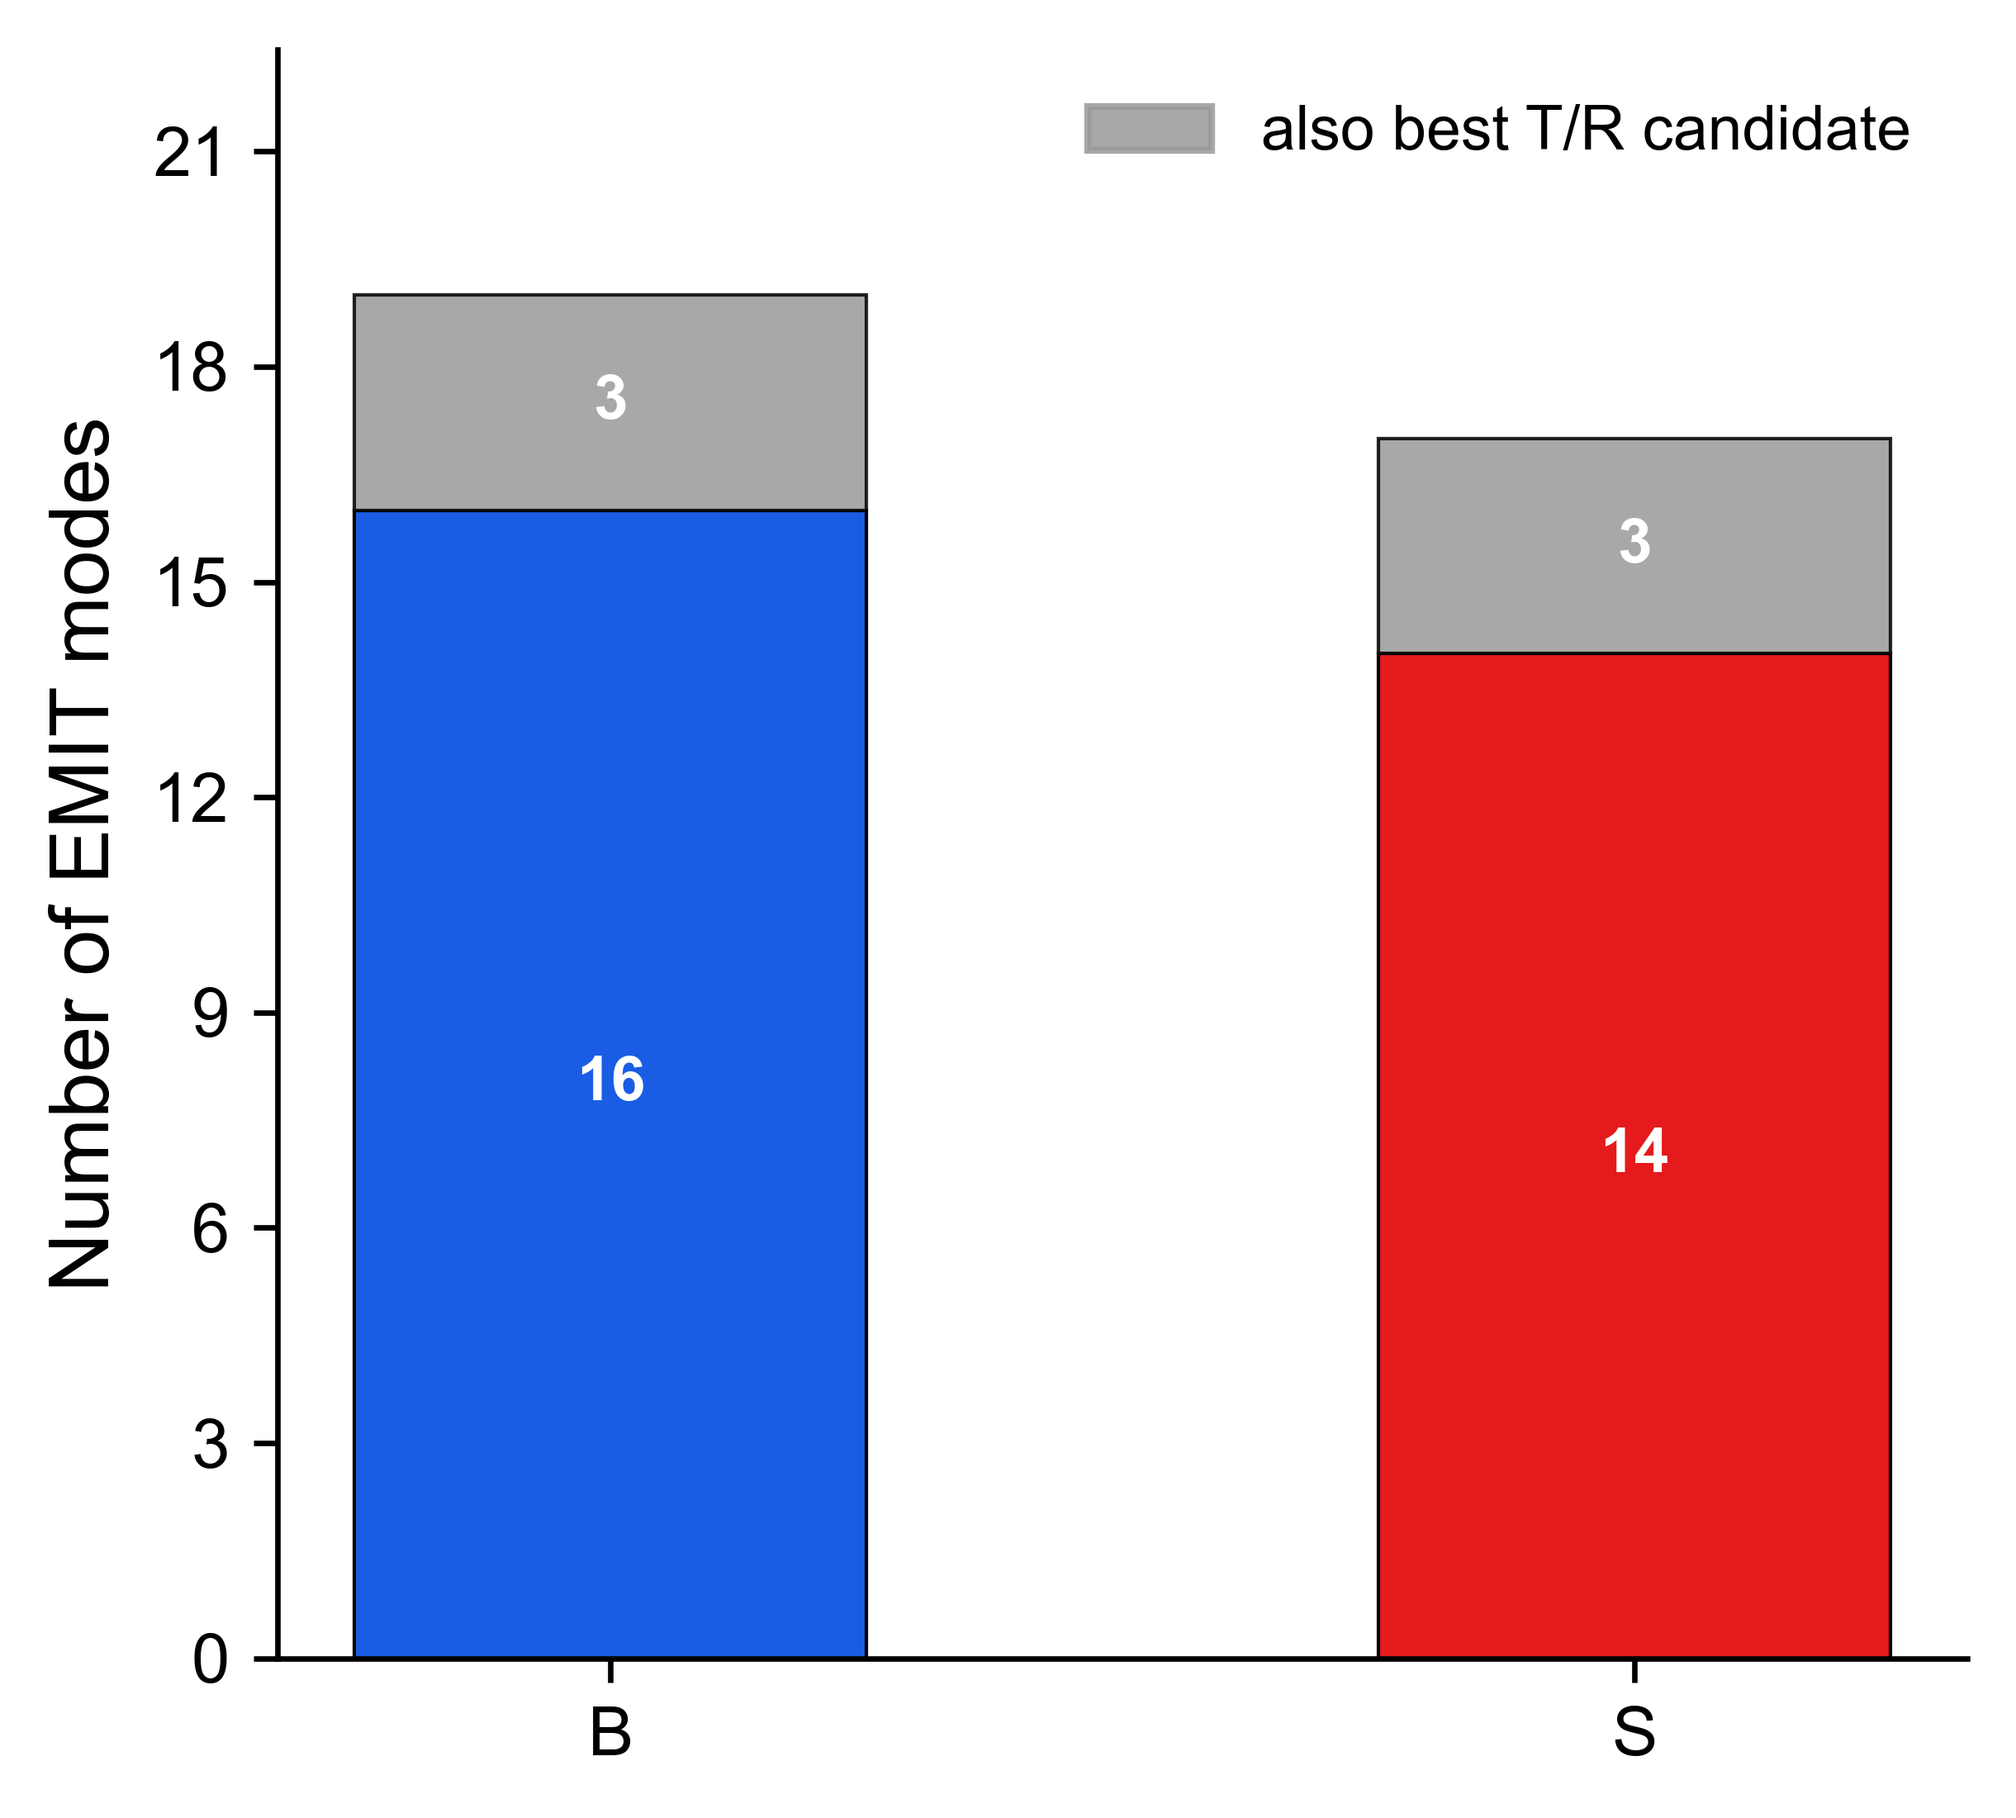
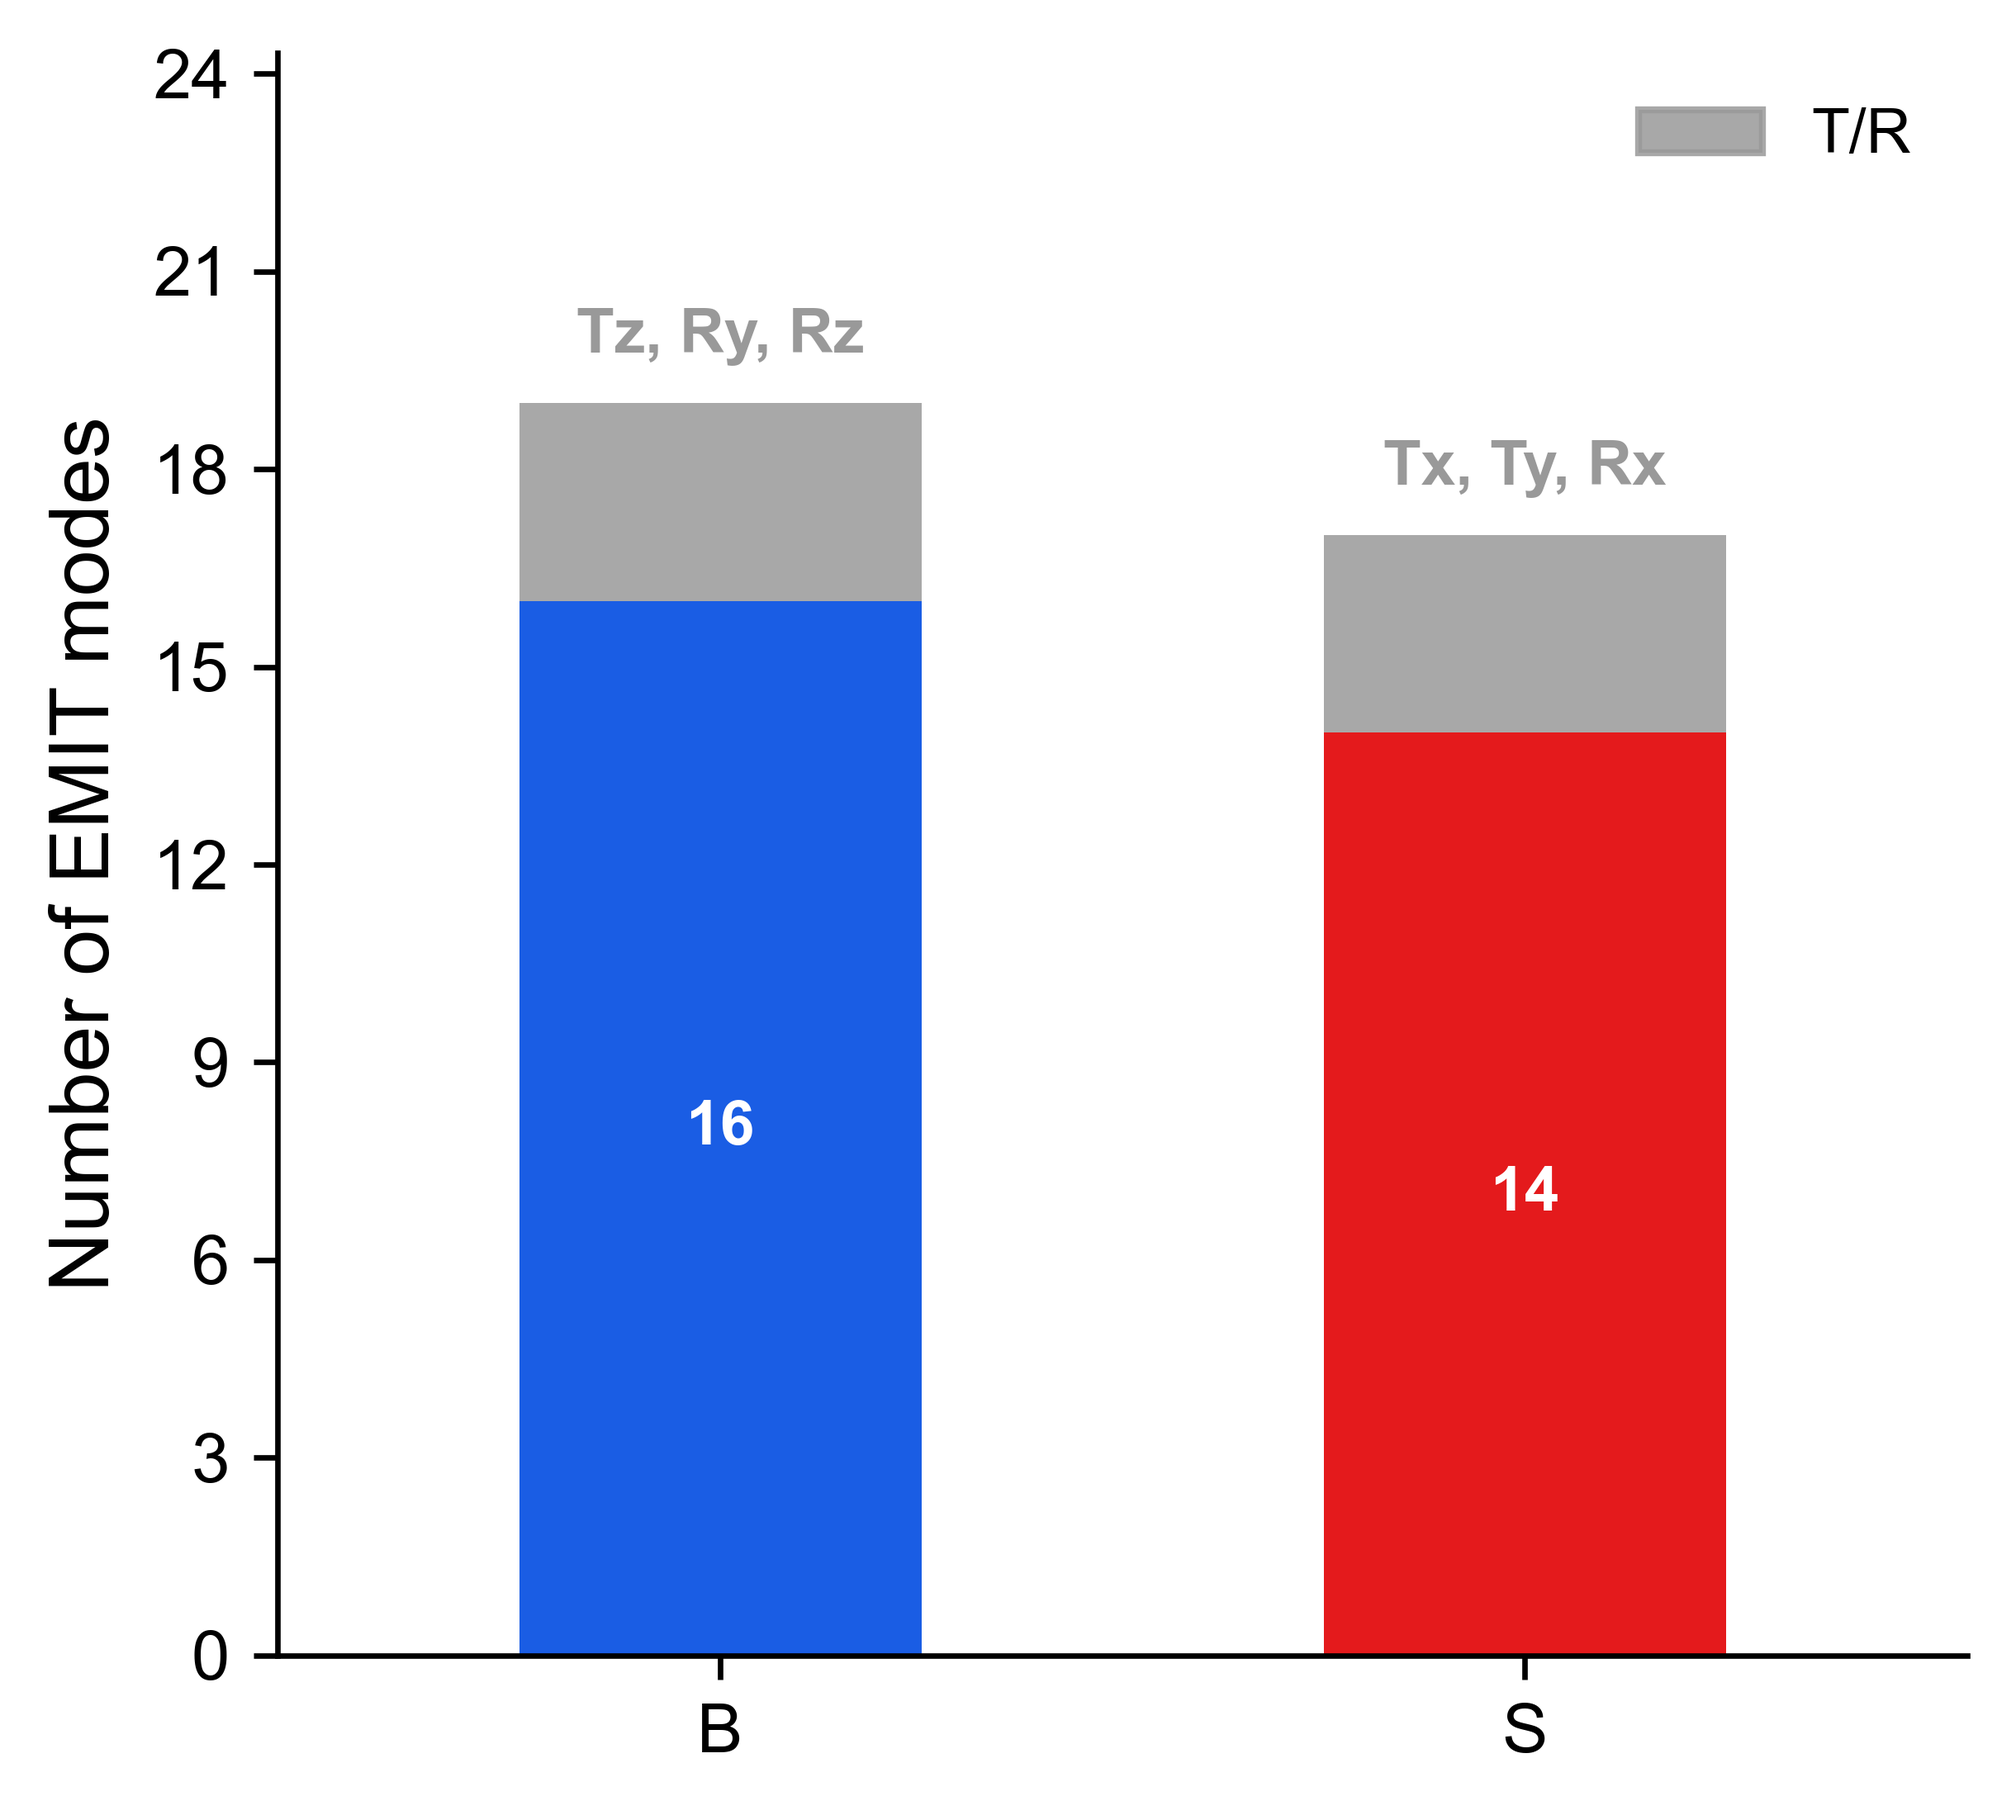
Polish fig_benzene_emit_counts: no bar borders, tighter spacing, explicit T/R mode labels
Legend shortened to "T/R"; the grey overlap segment on each bar is now
labeled with the actual T/R slot names (e.g. "Tz, Ry, Rz") instead of a
bare count, so readers see which EMIT modes were selected as best T/R
candidates without cross-referencing a table.

diff --git a/src/figures.py b/src/figures.py
@@ -1824,10 +1824,11 @@ def plot_benzene_emit_counts(
 ):
     """Build fig:benzeneemitcounts: benzene's 36 EMIT modes split into the
     two Step-2 vibrational buckets (B, S) from ``vib_label`` (binary scheme,
-    ``tau_SB``), each bar topped with a gray sub-segment counting how many
-    of that bucket's modes were ALSO selected as one of the 6 best T/R
-    candidates by the independent Step-3 Hungarian assignment (``tr_label``
-    non-null).
+    ``tau_SB``), each bar topped with a gray sub-segment -- labeled with the
+    actual T/R slot names (e.g. "Tz, Ry, Rz"), not just a count -- for
+    however many of that bucket's modes were ALSO selected as one of the 6
+    best T/R candidates by the independent Step-3 Hungarian assignment
+    (``tr_label`` non-null).
 
     Step 2 and Step 3 are decoupled in the current algorithm (see
     classifier.py's module docstring): a mode's vibrational label and its
@@ -1857,35 +1858,36 @@ def plot_benzene_emit_counts(
     base_counts = [int(counts[c]) for c in cats]
     grey_counts = [int(tr_overlap.get(c, 0)) for c in cats]
 
+    # Axis-canonical order for listing which T/R slots landed in each bar.
+    axis_order = ["Tx", "Ty", "Tz", "Rx", "Ry", "Rz"]
+    tr_names = {
+        c: sorted(df[has_tr & (df["vib_label"] == c)]["tr_label"].tolist(),
+                   key=axis_order.index)
+        for c in cats
+    }
+
     fig, ax = plt.subplots(figsize=(4.2, 3.8))
     x = np.arange(len(cats))
     colored_h = [b - g for b, g in zip(base_counts, grey_counts)]
-    ax.bar(x, colored_h, 0.5, color=[bar_color[c] for c in cats],
-           edgecolor="black", linewidth=0.5)
-    ax.bar(x, grey_counts, 0.5, bottom=colored_h,
-           color=COLORS["external"], alpha=0.85, edgecolor="black", linewidth=0.5)
+    ax.bar(x, colored_h, 0.5, color=[bar_color[c] for c in cats])
+    ax.bar(x, grey_counts, 0.5, bottom=colored_h, color=COLORS["external"], alpha=0.85)
+    ax.set_xlim(-0.55, len(cats) - 1 + 0.55)
 
-    THIN = 0.08  # T/R sub-segments smaller than this fraction of their bar get an outside label
-    for xi, ch, grey, base in zip(x, colored_h, grey_counts, base_counts):
+    for xi, ch, grey, base, c in zip(x, colored_h, grey_counts, base_counts, cats):
         if ch > 0:
             ax.text(xi, ch / 2, str(ch), ha="center", va="center", color="white",
                      fontweight="bold", fontsize=ANNOTATION_FONTSIZE)
         if grey > 0:
-            if base and grey / base >= THIN:
-                ax.text(xi, ch + grey / 2, str(grey), ha="center", va="center",
-                         color="white", fontweight="bold", fontsize=ANNOTATION_FONTSIZE)
-            else:
-                ax.text(xi, base + max(base_counts) * 0.03, str(grey), ha="center",
-                         va="bottom", color=COLORS["external"], fontweight="bold",
-                         fontsize=ANNOTATION_FONTSIZE)
+            ax.text(xi, base + max(base_counts) * 0.03, ", ".join(tr_names[c]),
+                     ha="center", va="bottom", color=COLORS["external"],
+                     fontweight="bold", fontsize=ANNOTATION_FONTSIZE)
 
     ax.set_xticks(x)
     ax.set_xticklabels(cats)
     ax.set_ylabel("Number of EMIT modes")
     ax.yaxis.set_major_locator(plt.MaxNLocator(integer=True))
-    ax.set_ylim(0, max(base_counts) * 1.18)
-    ax.legend(handles=[Patch(color=COLORS["external"], alpha=0.85,
-                              label="also best T/R candidate")],
+    ax.set_ylim(0, max(base_counts) * 1.28)
+    ax.legend(handles=[Patch(color=COLORS["external"], alpha=0.85, label="T/R")],
               loc="upper right", frameon=False, fontsize=ANNOTATION_FONTSIZE)
 
     fig.tight_layout()
@@ -1910,6 +1912,7 @@ def plot_benzene_emit_counts(
         "n_total": n_total,
         "counts": {c: int(counts[c]) for c in cats},
         "tr_overlap_counts": {c: int(tr_overlap.get(c, 0)) for c in cats},
+        "tr_overlap_labels": tr_names,
     }
     return summary_dict
 
